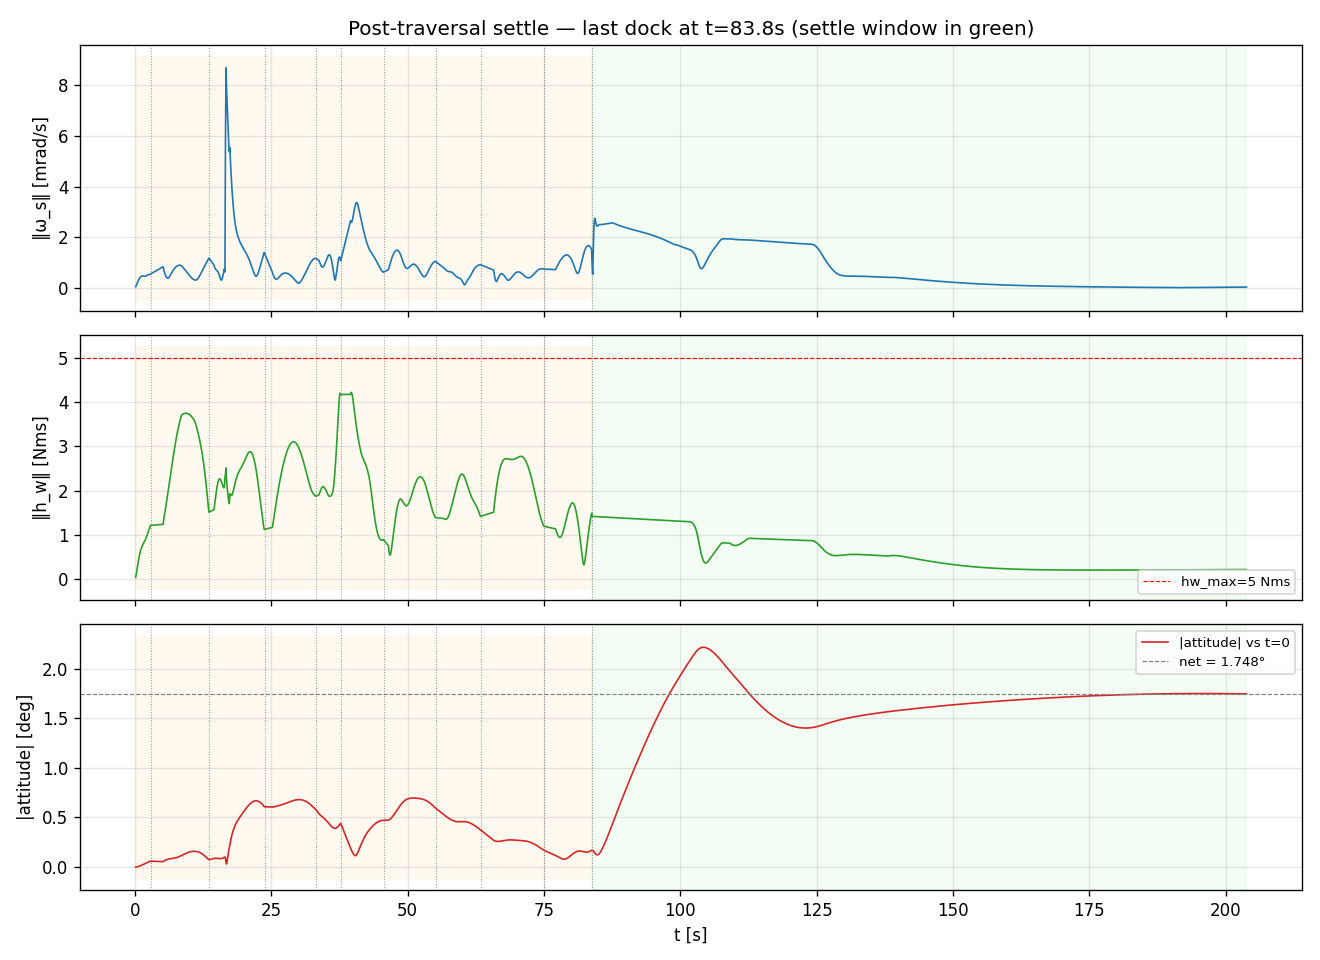
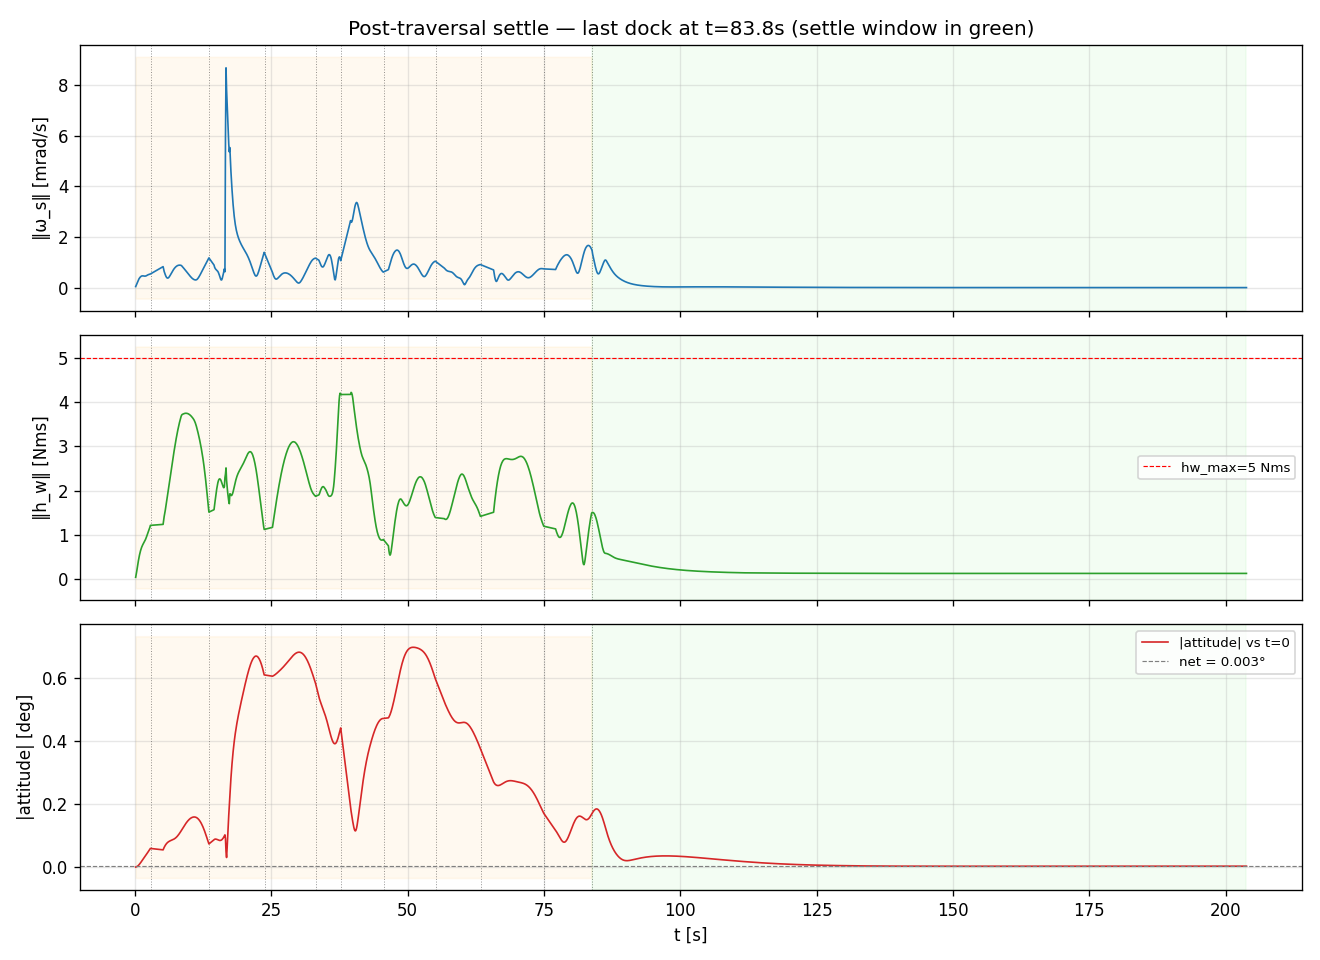
WBC: centroidal-control DS architecture — closes the welded-redundancy drift
The trailing-DS settle gains CoM + torso-orientation tracking at P1,
posture at P3, with the passivity inequality (already implemented but
unused outside setup-settle) handling kinetic-energy dissipation. The
previous joint-vel-damping COST task (α=1000 at P1) is dropped — energy
management moves from cost to inequality constraint.

This is the standard centroidal whole-body QP structure (Wensing-Orin,
Sleiman-Carius), specialized for our welded DS where the spec'd 8-DOF
redundancy was previously closed by nothing (the configuration could
drift freely through the 6 torso + 2 arm-null DOFs that the welds don't
constrain).

Hierarchy in trailing DS now:

  P1: ‖a_com − a_com_des(NMPC)‖² · α_com=100      ← centroidal pos
  P1: ‖e_torso_ori‖² · K_p_ori · α_torso_ori=200  ← orientation
  P3: ‖posture residual‖² · α_post_ds=50           ← arm-null cleanup
  P4: ‖(I−G⁺G)·λ‖² · α_lambda_int=1.0              ← internal stress
  P4: ‖λ − λ_ref‖² · α_wrench=0.01                 ← NMPC tracking

  Hard inequality (new in DS): q̇_j^T·τ + 2α_pass·T_kin ≤ 0
  (passivity → exponential decay of kinetic energy)

Scope:
- ds_centroidal_mode is GATED to the trailing-DS settle only (via the
  new ds_centroidal_active kwarg flowing from sim_loop through _step
  into qp.solve). Inter-step DS (_run_ds_passivity_loop) and the
  setup-phase Stage 2 settle keep using the legacy joint-vel-damping
  cost — first iteration showed that activating centroidal-DS in the
[…]

diff --git a/crawlbot/solvers/wholebody_qp.py b/crawlbot/solvers/wholebody_qp.py
@@ -90,6 +90,17 @@ class WholeBodyQPConfig:
     # the welded loop. No effect in SS (only one contact ⇒ rank-6 λ,
     # null space is empty). Default 0 ⇒ bit-identical legacy.
 
+    # DS centroidal-control mode: when True and settle_mode is True,
+    # replaces the joint-vel-damping cost task (P1, weight 1000) with
+    # CoM 3D + torso angular 3D tracking tasks at P1, plus posture at
+    # P3. Energy dissipation is handled by the passivity *inequality*
+    # (not a cost), which the sim_loop activates concurrently. Default
+    # False ⇒ legacy behavior (joint-vel damping cost).
+    ds_centroidal_mode: bool = False
+    ds_alpha_com: float = 1e2
+    ds_alpha_torso_ori: float = 2e2
+    ds_alpha_posture: float = 5e1
+
     # ── M2 stack: torso P1 + EE null-space P2 + posture P3 + soft CoM ──
     use_m2_stack: bool = False    # Enable M2 reworked task stack (§5.6-5.7)
     alpha_com_soft: float = 5.0   # Soft CoM residual weight (1-10 per spec)
@@ -314,6 +325,7 @@ class WholeBodyQP:
         # M2 passivity constraint: enforce dq_j^T*tau_q + 2*alpha*T <= 0
         # Intended to be ON during DS phase only (see §3.6, §5.7).
         passivity_active: bool = False,
+        ds_centroidal_active: bool = False,
     ) -> Tuple[np.ndarray, np.ndarray, np.ndarray, np.ndarray, QPSolveInfo]:
         """Solve the whole-body QP.
 
@@ -864,10 +876,14 @@ class WholeBodyQP:
 
         # --- Task 3: Posture regulation ---
         # q̈_posture = Kp_post (q_nom - q) + Kd_post (0 - dq)
-        # Skipped in settle_mode: the settle task (P1) already dampens
-        # all joint velocities, and at weight_ratio=1 the posture PD
-        # would interfere with that dissipation (T10 regression).
-        if not settle_mode:
+        # Skipped in settle_mode (legacy joint-vel-damping path) because
+        # the settle task already dampens velocities and posture would
+        # interfere (T10 regression). Re-enabled when ds_centroidal_mode
+        # since the joint-vel cost is gone — posture is needed to
+        # constrain the 2 arm-null-space DOFs.
+        _posture_in_ds = (settle_mode and cfg.ds_centroidal_mode
+                          and ds_centroidal_active)
+        if (not settle_mode) or _posture_in_ds:
             qdd_posture = (cfg.Kp_posture * (self._q_nominal - q) -
                            cfg.Kd_posture * dq)
 
@@ -910,11 +926,15 @@ class WholeBodyQP:
                 N_combo = np.eye(n) - A_combo_pinv @ A_combo
                 A_posture_proj = A_posture @ N_combo
                 b_posture_res = b_posture - A_posture @ A_combo_pinv @ b_combo
+                _post_w = (cfg.ds_alpha_posture if _posture_in_ds
+                           else cfg.alpha_posture)
                 qp.add_task(A_posture_proj, b_posture_res,
-                            cfg.alpha_posture, priority=3)
+                            _post_w, priority=3)
             else:
+                _post_w = (cfg.ds_alpha_posture if _posture_in_ds
+                           else cfg.alpha_posture)
                 qp.add_task(A_posture, b_posture,
-                            cfg.alpha_posture, priority=3)
+                            _post_w, priority=3)
 
         # --- Task 3b: DS joint-space settle (damp all velocities to zero) ---
         # In settle mode, torso/CoM tasks are skipped (they conflict with
@@ -922,11 +942,50 @@ class WholeBodyQP:
         # to zero via pure damping. No position term — with 8 DOF remaining
         # (6 base + 2 redundant from 7-DOF arms) and welds constraining the
         # EEs, the system can only stop at the current configuration.
-        if settle_mode:
+        #
+        # When cfg.ds_centroidal_mode is True, this cost task is REPLACED
+        # by CoM + torso-ori tracking at P1 (below), with energy
+        # dissipation handled by the passivity inequality (sim_loop
+        # activates passivity_active=True concurrently).
+        if settle_mode and not (cfg.ds_centroidal_mode and ds_centroidal_active):
             A_settle = np.zeros((nq, n))
             A_settle[:, idx['qdd'][0]: idx['qdd'][1]] = np.eye(nq)
             b_settle = -cfg.Kd_settle * dq
             qp.add_task(A_settle, b_settle, cfg.alpha_settle, priority=1)
+
+        # --- Centroidal-DS tasks (cfg.ds_centroidal_mode + settle_mode) ---
+        # 6-D centroidal tracking during DS: CoM 3D + torso angular 3D.
+        # The captured Stage 3 reference (r_torso_ref, R_torso_ref, r_com_ref)
+        # becomes load-bearing here. Energy dissipation is enforced by
+        # the passivity inequality (added below if passivity_active).
+        # The NMPC's planned a_com_ff is already in a_com_des.
+        if settle_mode and cfg.ds_centroidal_mode and ds_centroidal_active:
+            # CoM 3D task — reuses a_com_des / A_com computed earlier
+            # (always-on at the top of the task block).
+            qp.add_task(A_com, b_com, cfg.ds_alpha_com, priority=1)
+
+            # Torso angular 3D task — reuse the angular rows of the
+            # 6D torso target. Note torso_task_active is gated False
+            # by settle_mode, so a_torso_des / A_torso_full aren't
+            # computed; recompute the angular part here.
+            if (J_torso is not None and R_torso is not None
+                    and R_torso_ref is not None):
+                e_ori = pin.log3(R_torso.T @ R_torso_ref)
+                v_torso_actual = J_torso @ dq_robot  # (6,)
+                v_ref_t = (v_torso_ref if v_torso_ref is not None
+                           else np.zeros(6))
+                a_torso_ang_des = (
+                    np.diag(cfg.Kp_torso)[3:, 3:] @ e_ori
+                    + np.diag(cfg.Kd_torso)[3:, 3:] @ (
+                        v_ref_t[3:] - v_torso_actual[3:]))
+                jdq = (Jdot_dq_torso[3:] if Jdot_dq_torso is not None
+                       else np.zeros(3))
+                A_torso_ang = np.zeros((3, n))
+                A_torso_ang[:, idx['qdd_t'][0]: idx['qdd_t'][1]] = J_torso[3:, :6]
+                A_torso_ang[:, idx['qdd'][0]: idx['qdd'][1]] = J_torso[3:, 6:]
+                b_torso_ang = a_torso_ang_des - jdq
+                qp.add_task(A_torso_ang, b_torso_ang,
+                            cfg.ds_alpha_torso_ori, priority=1)
 
         # --- Task 3: Contact wrench tracking ---
         A_wrench = np.zeros((self._dim_lambda, n))

diff --git a/crawlbot/simulation/sim_loop.py b/crawlbot/simulation/sim_loop.py
@@ -783,6 +783,10 @@ class SimulationLoop:
             alpha_reaction=ar_react,
             alpha_torque=1e0, alpha_reg=1e-2,
             alpha_lambda_int=cfg.ss_alpha_lambda_int,
+            ds_centroidal_mode=cfg.ds_centroidal_mode,
+            ds_alpha_com=cfg.ds_alpha_com,
+            ds_alpha_torso_ori=cfg.ds_alpha_torso_ori,
+            ds_alpha_posture=cfg.ds_alpha_posture,
             Kp_com=np.diag([kpc]*3), Kd_com=np.diag([kdc]*3),
             # M7: torso P1 task uses uniform PD gains across all 6
             # dimensions. The legacy 0.6x angular scaling was a
@@ -1943,10 +1947,17 @@ class SimulationLoop:
                     # H_DS3 diagnostic override — disable the passivity
                     # inequality for trailing DS post-abort (_step reads this
                     # via the passivity_override kwarg).
-                    _pass_override = (
-                        False if (_abort_ds and cfg.diag_disable_passivity_on_abort)
-                        else None
-                    )
+                    # When ds_centroidal_mode is on, the trailing-DS
+                    # settle uses the passivity inequality for energy
+                    # dissipation (replacing the joint-vel-damping cost),
+                    # so we force it ON regardless of the abort flag.
+                    if cfg.ds_centroidal_mode:
+                        _pass_override = True
+                    else:
+                        _pass_override = (
+                            False if (_abort_ds and cfg.diag_disable_passivity_on_abort)
+                            else None
+                        )
 
                     while t < t_ds_settle:
                         hw, L_com_prev = self._step(
@@ -1954,7 +1965,8 @@ class SimulationLoop:
                             cc_ds, 0, last_sa, last_sb,
                             hw, L_com_prev, log, ss_end=t,
                             settle_mode=True,
-                            passivity_override=_pass_override)
+                            passivity_override=_pass_override,
+                            ds_centroidal_active=cfg.ds_centroidal_mode)
                         t += cfg.dt_nmpc
 
                     i += 1
@@ -1991,7 +2003,8 @@ class SimulationLoop:
               cc_ss, target_anchor, stance_a, stance_b,
               hw, L_com_prev, log, ss_end=None, settle_mode=False,
               passivity_hold: bool = False,
-              passivity_override=None):
+              passivity_override=None,
+              ds_centroidal_active: bool = False):
         """Single NMPC+QP step.  All quantities are in structure frame.
 
         Parameters
@@ -2440,6 +2453,7 @@ class SimulationLoop:
                     H_base_swing=H_bs, swing_v_slice=sw_slice,
                     settle_mode=settle_mode,
                     passivity_active=passivity_active,
+                    ds_centroidal_active=ds_centroidal_active,
                     **tkw, **ek)
             except Exception as _qp_exc:
                 # Surface QP failures (silent swallow -> zero torque is

diff --git a/scripts/diag_cooperative_arms.py b/scripts/diag_cooperative_arms.py
@@ -302,6 +302,11 @@ def main(legacy: bool, alpha_torso_lin: float, anchor_dx: float = 0.8,
     # null space at P4 to keep λ minimum-net-wrench. SS path unchanged
     # (single contact ⇒ no internal-stress subspace).
     cfg.ss_alpha_lambda_int = 1.0
+    # DS centroidal-control mode: replace the joint-vel-damping cost
+    # with CoM + torso-ori tracking at P1, posture at P3, passivity
+    # inequality for energy dissipation. Closes the 8-DOF welded
+    # redundancy properly during trailing-DS settle.
+    cfg.ds_centroidal_mode = True
     # alpha_torso_ang stays at default 500 (set by _make_m7_config).
     # 5 evenly-spaced snapshots per SS for the offline renderer.
     # FRAMES_PER_STEP=0 disables capture entirely (e.g. for tests).

diff --git a/crawlbot/simulation/config.py b/crawlbot/simulation/config.py
@@ -239,6 +239,14 @@ class SimConfig:
     # the welded-loop λ in DS (both contacts active). No effect in SS
     # (single contact has no internal-stress null space). 0 ⇒ legacy.
 
+    # DS centroidal-control mode (replaces joint-vel-damping cost with
+    # CoM + torso-ori tracking at P1, posture at P3, passivity inequality
+    # for energy dissipation). Off by default ⇒ legacy joint-vel damping.
+    ds_centroidal_mode: bool = False
+    ds_alpha_com: float = 1e2
+    ds_alpha_torso_ori: float = 2e2
+    ds_alpha_posture: float = 5e1
+
     # ── QP gains — Single-support ──────────────────────────────
     ss_Kp_com: float = 3.0
     ss_Kd_com: float = 3.0
